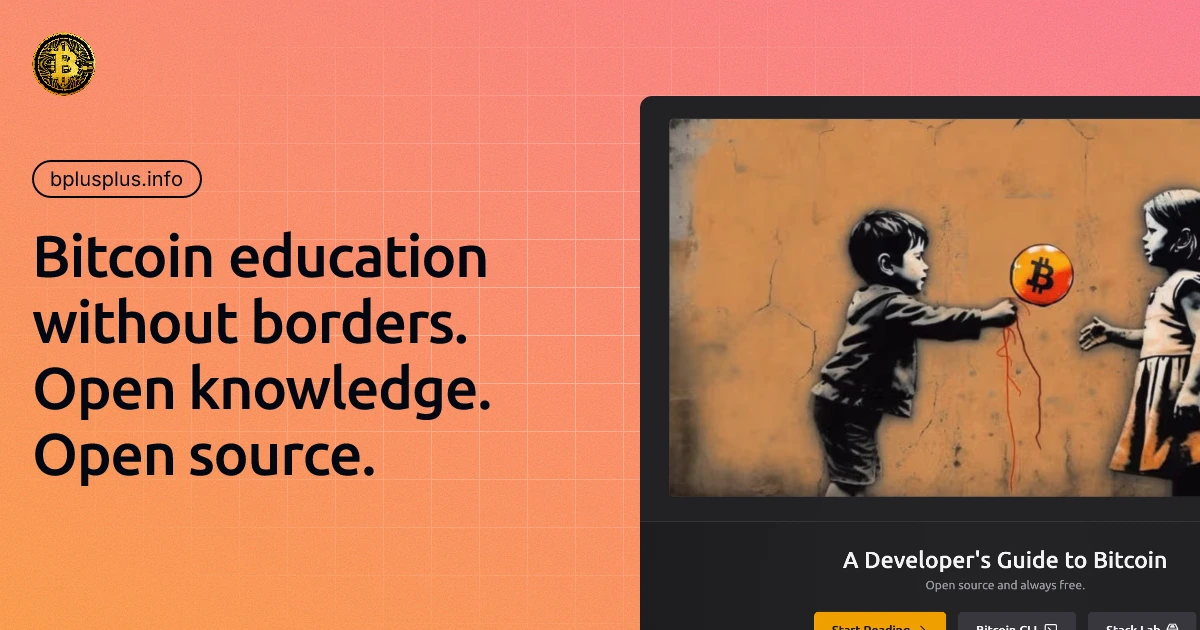
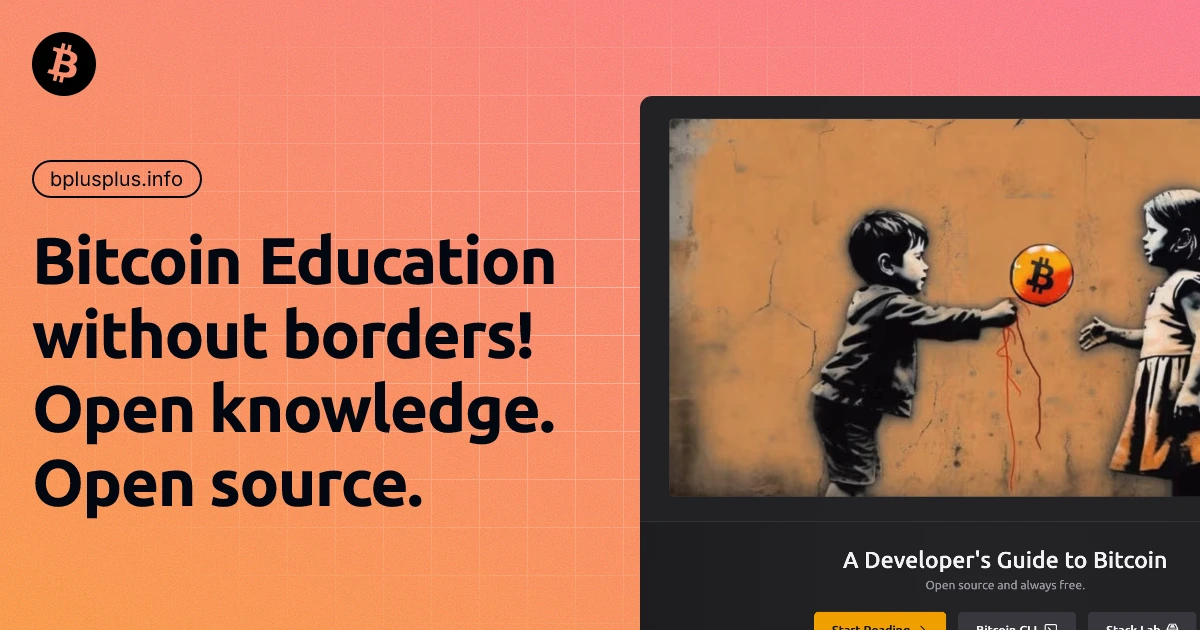
faet: update og image

Changed region(s): [[0.0308, 0.4825, 0.4625, 0.8143], [0.0308, 0.3619, 0.4625, 0.4524], [0.0, 0.0302, 0.0925, 0.1508]]

diff --git a/README.md b/README.md
@@ -1,6 +1,6 @@
 # B++
 
-Bitcoin Education without borders!
+Bitcoin Education without borders! Open knowledge. Open source.
 
 An open-source developer's guide to Bitcoin, covering everything from fundamental concepts to advanced protocol implementations. Built with Next.js 16 and designed to be always free.
 
